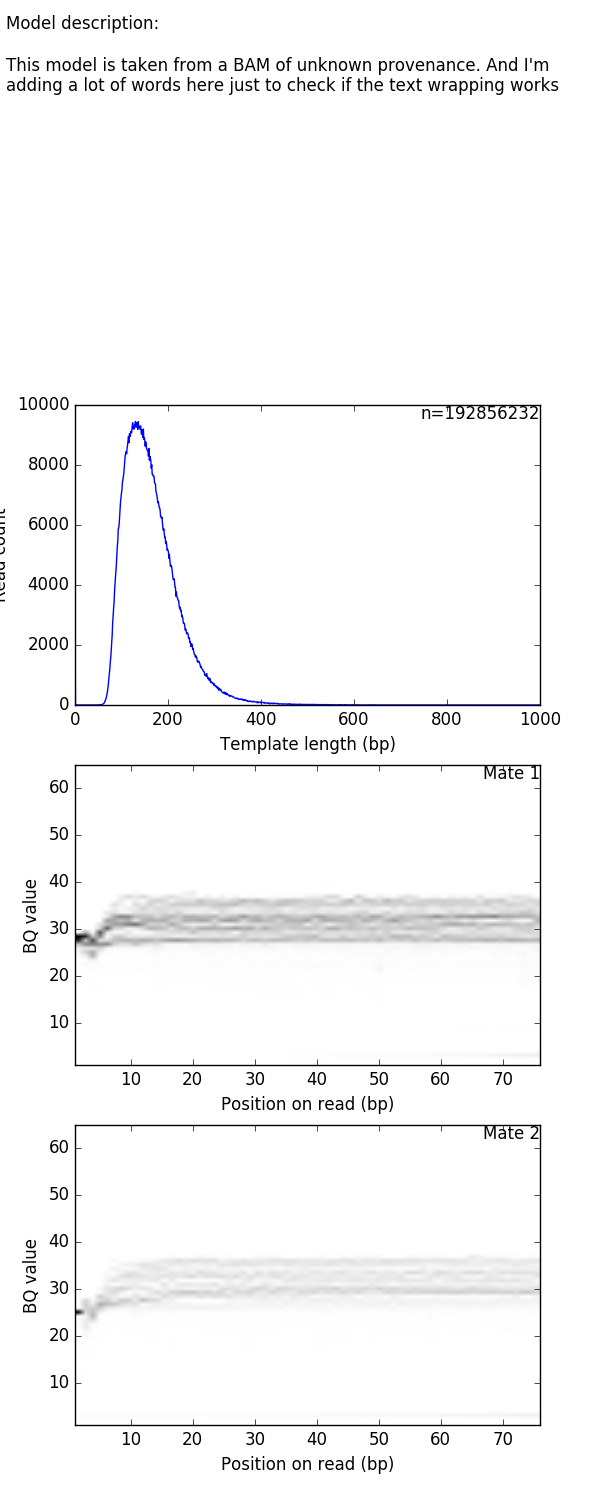
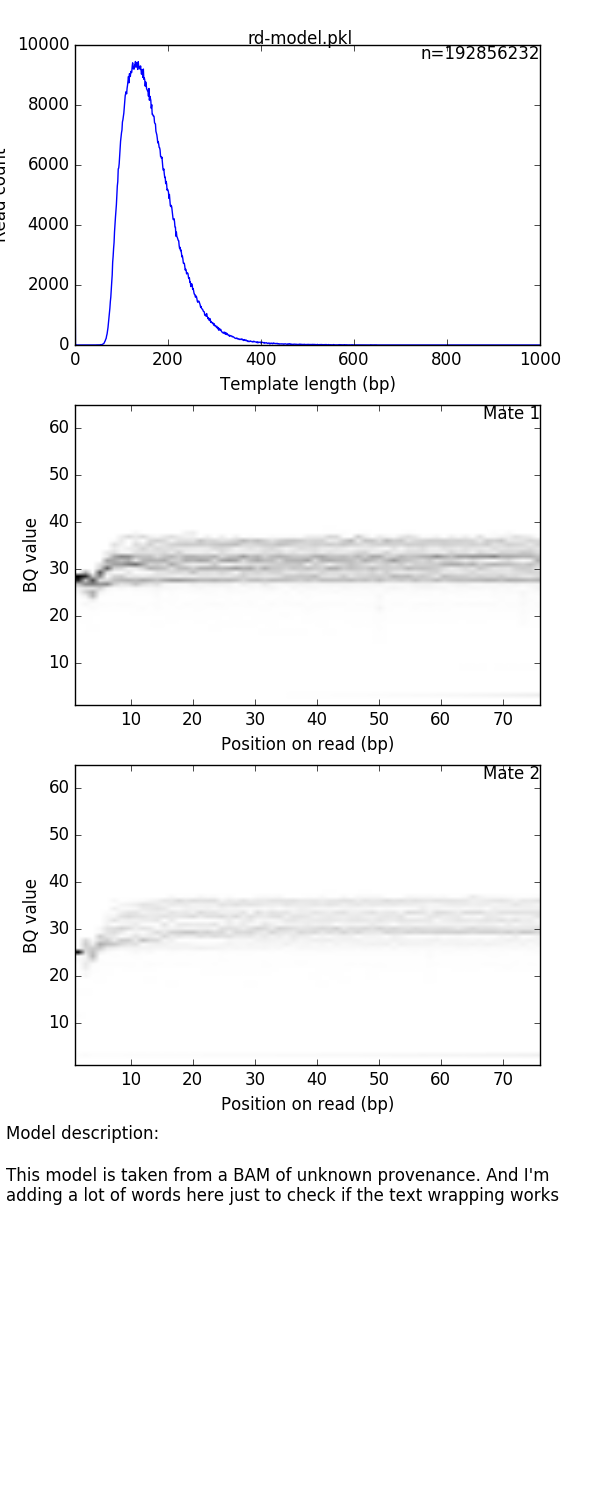
Improved model description figure layout

diff --git a/mitty/simulation/illumina.py b/mitty/simulation/illumina.py
@@ -163,10 +163,12 @@ def corrupt_single_read(seq, bq_mat, corrupt_rng):
   return ''.join(corrupt_seq), ''.join([chr(b + 33) for b in bq_seq])
 
 
-def describe_model(model, figfile):
+def describe_model(model_name, model, figfile):
   """Plot a few panels describing what the model looks like
 
+  :param model_name:
   :param model:
+  :param figfile:
   :return:
   """
   import matplotlib
@@ -175,17 +177,18 @@ def describe_model(model, figfile):
 
   fig = plt.figure(figsize=(6, 15))
   plt.subplots_adjust(bottom=0.05, top=0.97)
+  fig.suptitle(model_name)
 
-  fig.text(0.01, 0.99, 'Model description:\n\n' + model['model_description'], va='top', wrap='True')
-
-  ax = plt.subplot(4,1,2)
+  ax = plt.subplot(4,1,1)
   plot_template_length_distribution(model, ax, plt)
 
-  ax = plt.subplot(4,1,3)
+  ax = plt.subplot(4,1,2)
   plot_BQ_heatmap(model, 0, ax, plt)
 
-  ax = plt.subplot(4,1,4)
+  ax = plt.subplot(4,1,3)
   plot_BQ_heatmap(model, 1, ax, plt)
+
+  fig.text(0.01, 0.25, 'Model description:\n\n' + model['model_description'], va='top', wrap='True')
 
   plt.savefig(figfile)
 
